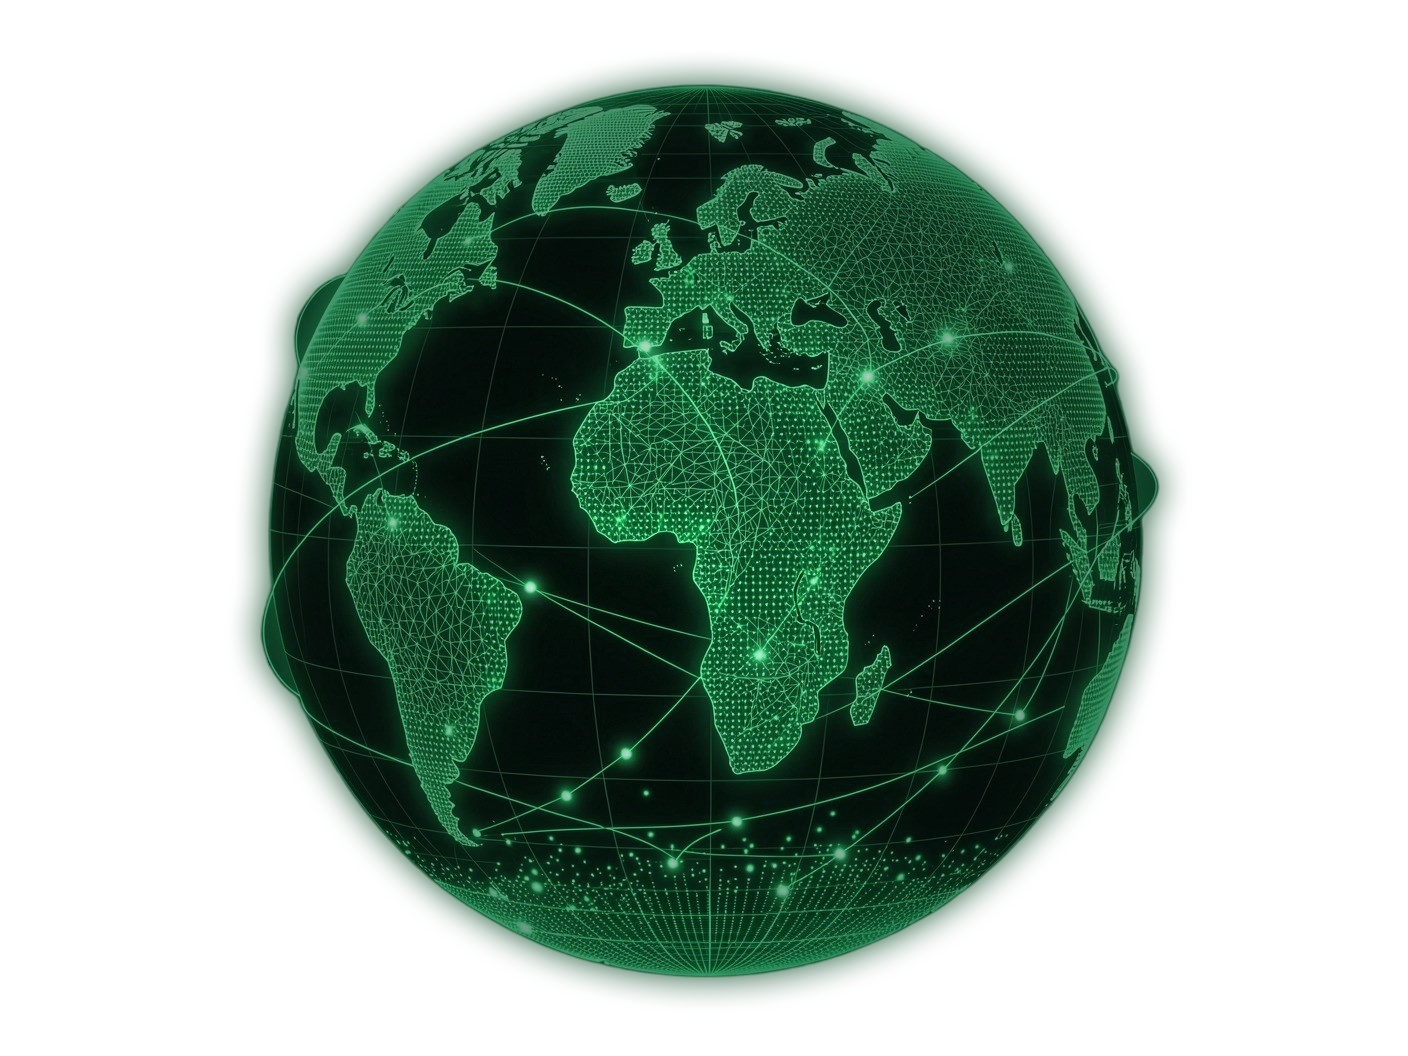
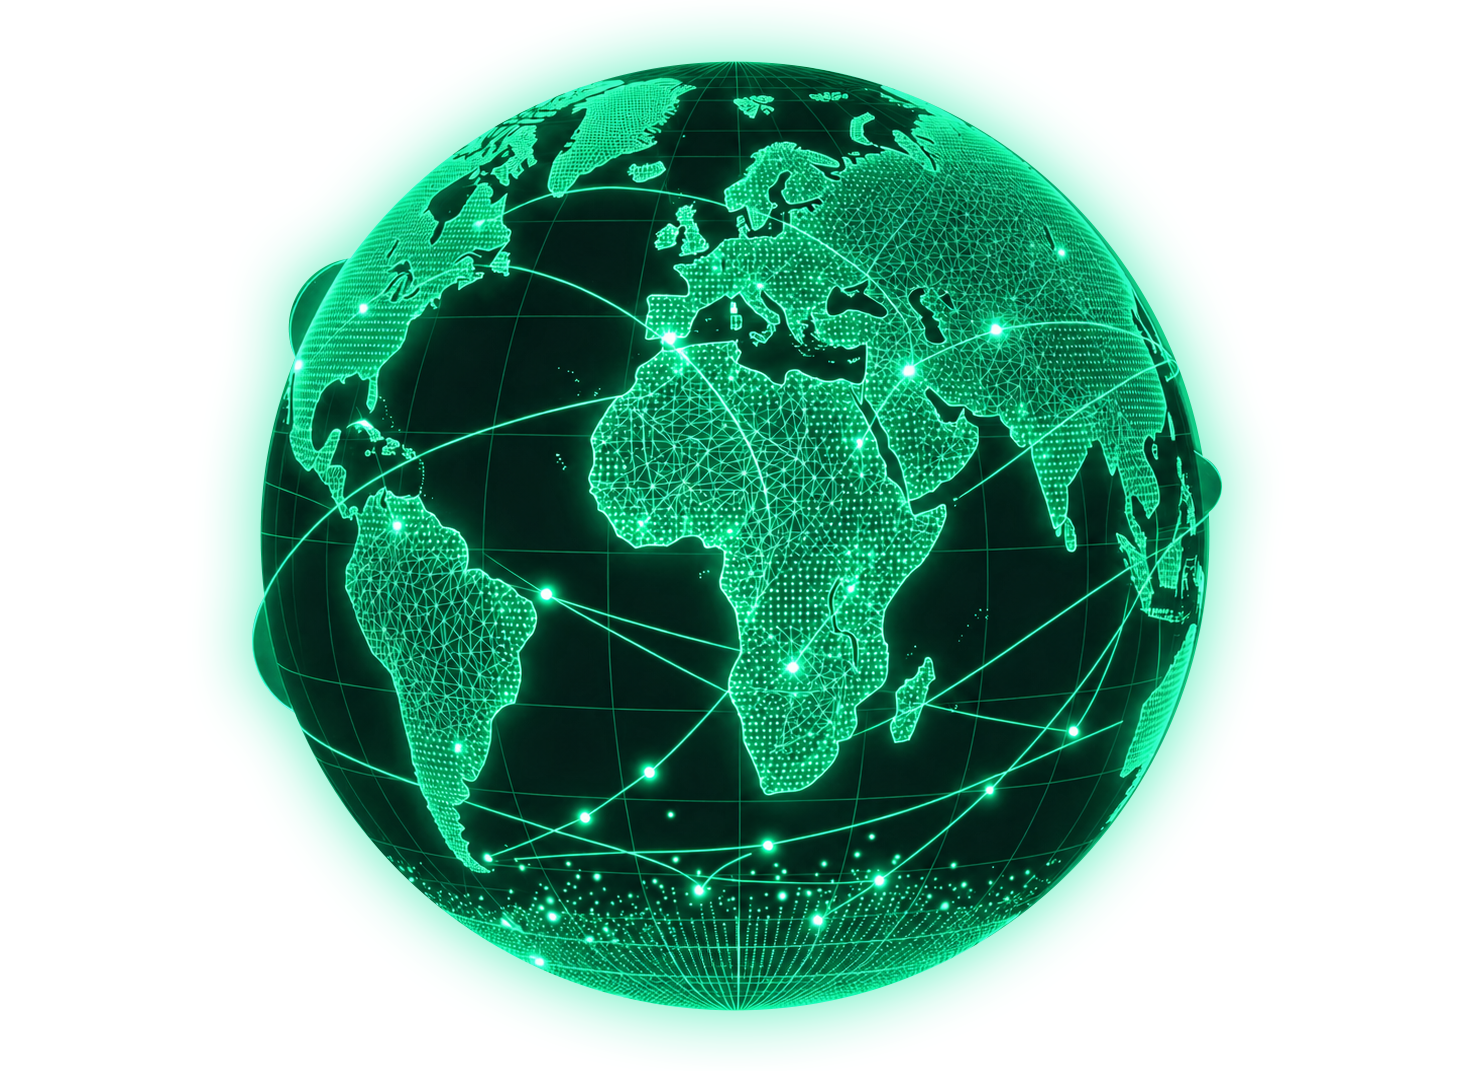
Add files via upload

diff --git a/vless/index.html b/vless/index.html
@@ -78,7 +78,7 @@ img {
 .split .visual { flex: 1; align-self: stretch; }
 
 .label-tag {
-  position: fixed; top: 32px; left: 32px; z-index: 2;
+  position: fixed; top: 32px; left: 32px; z-index: 150;
   font-size: 12px; text-transform: uppercase; letter-spacing: 3px;
   color: var(--accent); font-weight: 700;
   display: flex; align-items: center; gap: 12px;
@@ -174,7 +174,12 @@ h2 { font-size: clamp(30px, 3.5vw, 46px); }
   border-radius: 22px; padding: 32px 24px; text-align: center; position: relative;
   display: flex; flex-direction: column;
 }
-.p-tier.featured { border-color: var(--border-ac); background: rgba(47,229,131,0.04); }
+.p-tier.featured {
+  border-color: var(--border-ac); background: rgba(47,229,131,0.04);
+  flex: 1.15; padding: 40px 28px;
+}
+.p-tier.featured .p-price { font-size: 44px; }
+.p-tier.featured .p-name { font-size: 15px; }
 .p-badge {
   position: absolute; top: -14px; left: 50%; transform: translateX(-50%);
   background: var(--accent); color: var(--accent-ink); font-size: 11px; font-weight: 700;
@@ -274,7 +279,20 @@ h2 { font-size: clamp(30px, 3.5vw, 46px); }
   .split .visual { width: 100%; order: -1; }
   .placeholder { min-height: 180px; }
   .mini-cards { flex-direction: column; }
-  .pricing-row { flex-direction: column; }
+
+  /* карусель тарифов работает свайпом/колесом на любом экране ≤980px, не только на телефоне */
+  .pricing-row {
+    display: flex; flex-direction: row; align-items: center;
+    overflow-x: auto; scroll-snap-type: x mandatory; -webkit-overflow-scrolling: touch;
+    gap: 14px; margin: 16px -48px 0; padding: 22px 48px 8px;
+  }
+  .pricing-row::-webkit-scrollbar { display: none; }
+  .p-tier { scroll-snap-align: center; flex: 0 0 min(78%, 320px); padding: 24px 20px; }
+  .p-tier .p-price { font-size: 30px; margin-bottom: 14px; }
+  .p-tier.featured { flex: 0 0 min(88%, 360px); padding: 32px 24px; }
+  .p-tier.featured .p-price { font-size: 38px; }
+  .p-tier.featured .p-name { font-size: 15px; }
+
   .steps-row { flex-direction: column; gap: 22px; align-items: flex-start; }
   .step { flex-direction: row; text-align: left; align-items: center; gap: 16px; width: 100%; padding: 0; }
   .step-icon { margin-bottom: 0; flex-shrink: 0; }
@@ -313,14 +331,7 @@ h2 { font-size: clamp(30px, 3.5vw, 46px); }
   .mini-card .t { font-size: 10.5px; margin-bottom: 0; }
   .mini-card .d { display: none; }
 
-  .pricing-row {
-    display: flex; flex-direction: row;
-    overflow-x: auto; scroll-snap-type: x mandatory; -webkit-overflow-scrolling: touch;
-    gap: 14px; margin: 12px -24px 0; padding: 6px 24px 8px;
-  }
-  .pricing-row::-webkit-scrollbar { display: none; }
-  .p-tier { scroll-snap-align: center; flex: 0 0 78%; padding: 24px 20px; }
-  .p-tier .p-price { font-size: 30px; margin-bottom: 14px; }
+  .pricing-row { margin: 12px -24px 0; padding: 22px 24px 8px; }
 
   .steps-row { margin-top: 10px; }
   .step-icon { width: 46px; height: 46px; }
@@ -341,13 +352,13 @@ h2 { font-size: clamp(30px, 3.5vw, 46px); }
 
 <div class="logo-slot"><img src="logo.png" alt=""></div>
 <a href="mailto:support@lazeyka.pro" class="support-contact">support@lazeyka.pro</a>
+<div class="label-tag" id="labelTag">01</div>
 
 <div class="scroll-container">
 
   <section class="slide" data-name="Главная" data-dir="up">
     <div class="slide-inner split">
       <div class="text">
-        <div class="label-tag reveal rv-0">01</div>
         <h1 class="hero-h1 reveal rv-1">Быстрый и безопасный<span class="big">VPN <span class="grad">VLESS</span></span></h1>
         <p class="lead reveal rv-2">Свобода без границ.<br>Скорость без компромиссов.</p>
         <a href="#pricing" class="btn-green reveal rv-5">Подключайся сейчас
@@ -367,7 +378,6 @@ h2 { font-size: clamp(30px, 3.5vw, 46px); }
   <section class="slide" id="about" data-name="О протоколе" data-dir="up">
     <div class="slide-inner split">
       <div class="text">
-        <div class="label-tag reveal rv-0">02</div>
         <h2 class="reveal rv-1">Что такое <span class="grad">VLESS VPN</span>?</h2>
         <p class="lead reveal rv-2">VLESS — это современный VPN-протокол, созданный для высокой скорости, безопасности и стабильности даже в сложных сетевых условиях.</p>
         <div class="mini-cards">
@@ -407,7 +417,6 @@ h2 { font-size: clamp(30px, 3.5vw, 46px); }
   <section class="slide" data-name="Преимущества" data-dir="left">
     <div class="slide-inner split">
       <div class="text">
-        <div class="label-tag reveal rv-0">03</div>
         <h2 class="reveal rv-1">Преимущества <span class="grad">VLESS VPN</span></h2>
         <ul class="check-list">
           <li class="reveal rv-2"><svg width="18" height="18" viewBox="0 0 16 16" fill="none"><path d="M3 8.5l3 3 7-7" stroke="currentColor" stroke-width="1.8" stroke-linecap="round" stroke-linejoin="round"/></svg>Обходит блокировки и ограничения</li>
@@ -430,7 +439,6 @@ h2 { font-size: clamp(30px, 3.5vw, 46px); }
 
   <section class="slide" data-name="География" data-dir="right">
     <div class="slide-inner center">
-      <div class="label-tag reveal rv-0">04</div>
       <h2 class="reveal rv-1">Где это <span class="grad">работает</span>?</h2>
       <div class="use-grid">
         <div class="use-cell reveal rv-2"><div class="icon-circle">
@@ -458,7 +466,6 @@ h2 { font-size: clamp(30px, 3.5vw, 46px); }
 
   <section class="slide" id="pricing" data-name="Тарифы" data-dir="up">
     <div class="slide-inner center">
-      <div class="label-tag reveal rv-0">05</div>
       <h2 class="reveal rv-1">Выберите свой <span class="grad">тариф</span></h2>
       <div class="pricing-row">
         <div class="p-tier reveal rv-2">
@@ -498,7 +505,6 @@ h2 { font-size: clamp(30px, 3.5vw, 46px); }
 
   <section class="slide" data-name="Подключение" data-dir="up">
     <div class="slide-inner center">
-      <div class="label-tag reveal rv-0">06</div>
       <h2 class="reveal rv-1">Как <span class="grad">подключиться</span>?</h2>
       <div class="steps-row">
         <div class="step reveal rv-2">
@@ -536,7 +542,6 @@ h2 { font-size: clamp(30px, 3.5vw, 46px); }
   <section class="slide" id="cta" data-name="Начать" data-dir="up">
     <div class="slide-inner split">
       <div class="text">
-        <div class="label-tag reveal rv-0">07</div>
         <h2 class="reveal rv-1">Готов к <span class="grad">свободе</span>?</h2>
         <p class="lead reveal rv-2">Подключайся к VLESS VPN и открой интернет без границ уже сегодня!</p>
         <a href="#pricing" class="btn-green reveal rv-4">Начать сейчас
@@ -595,6 +600,12 @@ h2 { font-size: clamp(30px, 3.5vw, 46px); }
     dots.forEach((d, i) => d.classList.toggle('active', i === index));
   }
 
+  // Номер слайда — постоянный элемент поверх слайдов (как логотип и почта), не улетает вместе с карточкой
+  const labelTagEl = document.getElementById('labelTag');
+  function updateLabelTag(index) {
+    labelTagEl.textContent = String(index + 1).padStart(2, '0');
+  }
+
   function revealSlide(sec) {
     const els = sec.querySelectorAll('.reveal');
     els.forEach(el => el.classList.remove('visible'));
@@ -646,16 +657,18 @@ h2 { font-size: clamp(30px, 3.5vw, 46px); }
 
     current = to;
     updateDots(to);
+    updateLabelTag(to);
     revealSlide(incoming);
     history.replaceState(null, '', sections[to].id ? '#' + sections[to].id : location.pathname);
     setTimeout(() => { isAnimating = false; }, SLIDE_MS + 50);
   }
   updateDots(0);
+  updateLabelTag(0);
   revealSlide(sections[0]);
 
   // На мобильных карусель тарифов открывается сразу на популярном тарифе, по бокам — остальные
   function centerFeaturedTier() {
-    if (!window.matchMedia('(max-width: 768px)').matches) return;
+    if (!window.matchMedia('(max-width: 980px)').matches) return;
     const row = document.querySelector('.pricing-row');
     const featured = document.querySelector('.p-tier.featured');
     if (!row || !featured) return;
